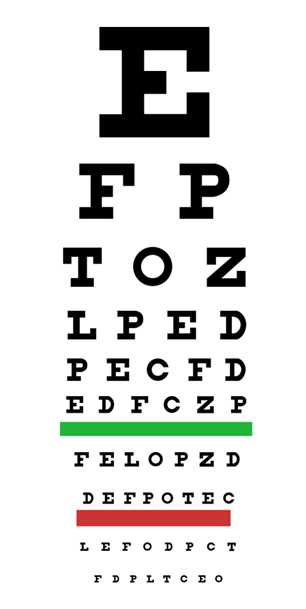
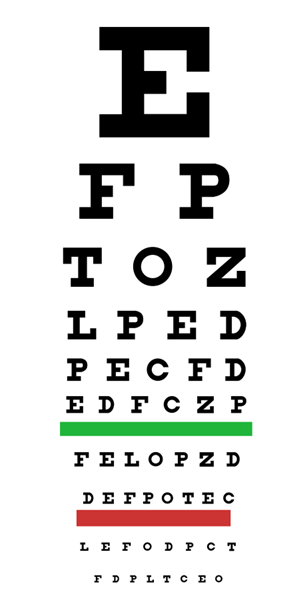
snellen

diff --git a/_site/tools/snellen/index.html b/_site/tools/snellen/index.html
@@ -2,7 +2,7 @@
 <html lang="en">
 <head>
   <meta charset="UTF-8">
-  <title>Clini</title>
+  <title>Visual Acuity Test</title>
   <meta name="viewport" content="width=device-width, initial-scale=1.0">
   <link rel="stylesheet" href="/assets/css/styles.css">
 </head>
@@ -37,15 +37,18 @@
 
   <main class="main-container">
       
-      <h2>Clini medical report generator</h2>
-<p><a href="https://www.clini.co.uk">clini</a> is a pilot version of an app designed to streamline the extraction of medical data from clinical documents, and generate patient-friendly reports using AI.</p>
-<a href="https://www.clini.co.uk">
-<img style="max-width: 200px; border-radius: 5%;" src="/assets/images/phonedemo.png" alt="phone">
-</a>
-<p>Medical test results need to be relayed in a way that is clear and easy to understand, and with interpretation and advice based on the person's particular issues.</p>
-<p>The app allows test results and other medical information to be built into a detailed and professional report. Privacy and data security are the top concerns.</p>
-<hr>
-<p><a href="https://www.clini.co.uk">Try the beta version</a></p>
+      <img id="snellen-img" src="/assets/images/snellen1.png" alt="Snellen Chart" style=" max-width: 100%; height: auto; display: block; margin: 0 auto;">
+<script>
+  const snellenImg = document.getElementById('snellen-img');
+
+  snellenImg.addEventListener('mouseover', () => {
+    snellenImg.src = '/assets/images/snellen2.png';
+  });
+
+  snellenImg.addEventListener('mouseout', () => {
+    snellenImg.src = '/assets/images/snellen1.png';
+  });
+</script>
 
     
 

diff --git a/_site/index.html b/_site/index.html
@@ -29,6 +29,7 @@
           <li><a href="/tools/gfr">Kidney Calculator</a></li>
           <li><a href="/tools/labconverter">Lab Unit Converter</a></li>
           <li><a href="/tools/paedsdoses">Paeds Doses</a></li>
+          <li><a href="/tools/snellen">Visual Acuity</a></li>
         </ul>
       </li>
     </ul>
@@ -77,6 +78,11 @@ Whether you’re here to run some numbers, check a clinical concept, or just bro
   <img src="/assets/images/medicine.png" alt="Kids' Doses">
 <p><h3>Kids' Doses</h3></p>
 <p><p>A quick-reference tool for calculating common paediatric drug doses based on weight. Always cross-check with the BNFc or local guidelines.</p></p>
+  </a>
+  <a href="/tools/snellen/" class="card">
+  <img src="/assets/images/snellen1.png" alt="Visual Acuity Test">
+<p><h3>Visual Acuity Test</h3></p>
+<p><p>Snellen and Logmar charts plates for screening visual acuity. Suitable for use on a phone or computer.</p></p>
   </a>
   <a href="/clini/" class="card">
   <img src="/assets/images/phonedemo.png" alt="Clini">

diff --git a/_includes/layout.html b/_includes/layout.html
@@ -29,6 +29,7 @@
           <li><a href="/tools/gfr">Kidney Calculator</a></li>
           <li><a href="/tools/labconverter">Lab Unit Converter</a></li>
           <li><a href="/tools/paedsdoses">Paeds Doses</a></li>
+          <li><a href="/tools/snellen">Visual Acuity</a></li>
         </ul>
       </li>
     </ul>

diff --git a/_site/bio/index.html b/_site/bio/index.html
@@ -29,6 +29,7 @@
           <li><a href="/tools/gfr">Kidney Calculator</a></li>
           <li><a href="/tools/labconverter">Lab Unit Converter</a></li>
           <li><a href="/tools/paedsdoses">Paeds Doses</a></li>
+          <li><a href="/tools/snellen">Visual Acuity</a></li>
         </ul>
       </li>
     </ul>

diff --git a/_site/blog/chips/index.html b/_site/blog/chips/index.html
@@ -29,6 +29,7 @@
           <li><a href="/tools/gfr">Kidney Calculator</a></li>
           <li><a href="/tools/labconverter">Lab Unit Converter</a></li>
           <li><a href="/tools/paedsdoses">Paeds Doses</a></li>
+          <li><a href="/tools/snellen">Visual Acuity</a></li>
         </ul>
       </li>
     </ul>

diff --git a/_site/blog/index.html b/_site/blog/index.html
@@ -29,6 +29,7 @@
           <li><a href="/tools/gfr">Kidney Calculator</a></li>
           <li><a href="/tools/labconverter">Lab Unit Converter</a></li>
           <li><a href="/tools/paedsdoses">Paeds Doses</a></li>
+          <li><a href="/tools/snellen">Visual Acuity</a></li>
         </ul>
       </li>
     </ul>

diff --git a/_site/blog/moser/index.html b/_site/blog/moser/index.html
@@ -29,6 +29,7 @@
           <li><a href="/tools/gfr">Kidney Calculator</a></li>
           <li><a href="/tools/labconverter">Lab Unit Converter</a></li>
           <li><a href="/tools/paedsdoses">Paeds Doses</a></li>
+          <li><a href="/tools/snellen">Visual Acuity</a></li>
         </ul>
       </li>
     </ul>

diff --git a/_site/tools/bmi/index.html b/_site/tools/bmi/index.html
@@ -29,6 +29,7 @@
           <li><a href="/tools/gfr">Kidney Calculator</a></li>
           <li><a href="/tools/labconverter">Lab Unit Converter</a></li>
           <li><a href="/tools/paedsdoses">Paeds Doses</a></li>
+          <li><a href="/tools/snellen">Visual Acuity</a></li>
         </ul>
       </li>
     </ul>

diff --git a/_site/tools/colorblind/index.html b/_site/tools/colorblind/index.html
@@ -29,6 +29,7 @@
           <li><a href="/tools/gfr">Kidney Calculator</a></li>
           <li><a href="/tools/labconverter">Lab Unit Converter</a></li>
           <li><a href="/tools/paedsdoses">Paeds Doses</a></li>
+          <li><a href="/tools/snellen">Visual Acuity</a></li>
         </ul>
       </li>
     </ul>

diff --git a/_site/tools/gfr/index.html b/_site/tools/gfr/index.html
@@ -29,6 +29,7 @@
           <li><a href="/tools/gfr">Kidney Calculator</a></li>
           <li><a href="/tools/labconverter">Lab Unit Converter</a></li>
           <li><a href="/tools/paedsdoses">Paeds Doses</a></li>
+          <li><a href="/tools/snellen">Visual Acuity</a></li>
         </ul>
       </li>
     </ul>

diff --git a/_site/tools/growth/index.html b/_site/tools/growth/index.html
@@ -29,6 +29,7 @@
           <li><a href="/tools/gfr">Kidney Calculator</a></li>
           <li><a href="/tools/labconverter">Lab Unit Converter</a></li>
           <li><a href="/tools/paedsdoses">Paeds Doses</a></li>
+          <li><a href="/tools/snellen">Visual Acuity</a></li>
         </ul>
       </li>
     </ul>

diff --git a/_site/tools/labconverter/index.html b/_site/tools/labconverter/index.html
@@ -29,6 +29,7 @@
           <li><a href="/tools/gfr">Kidney Calculator</a></li>
           <li><a href="/tools/labconverter">Lab Unit Converter</a></li>
           <li><a href="/tools/paedsdoses">Paeds Doses</a></li>
+          <li><a href="/tools/snellen">Visual Acuity</a></li>
         </ul>
       </li>
     </ul>
